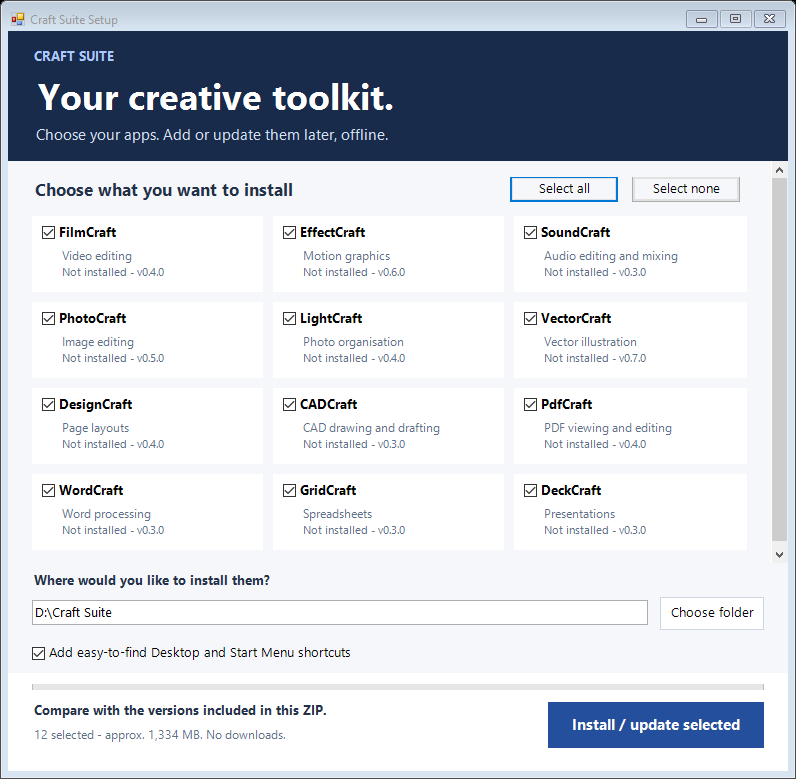
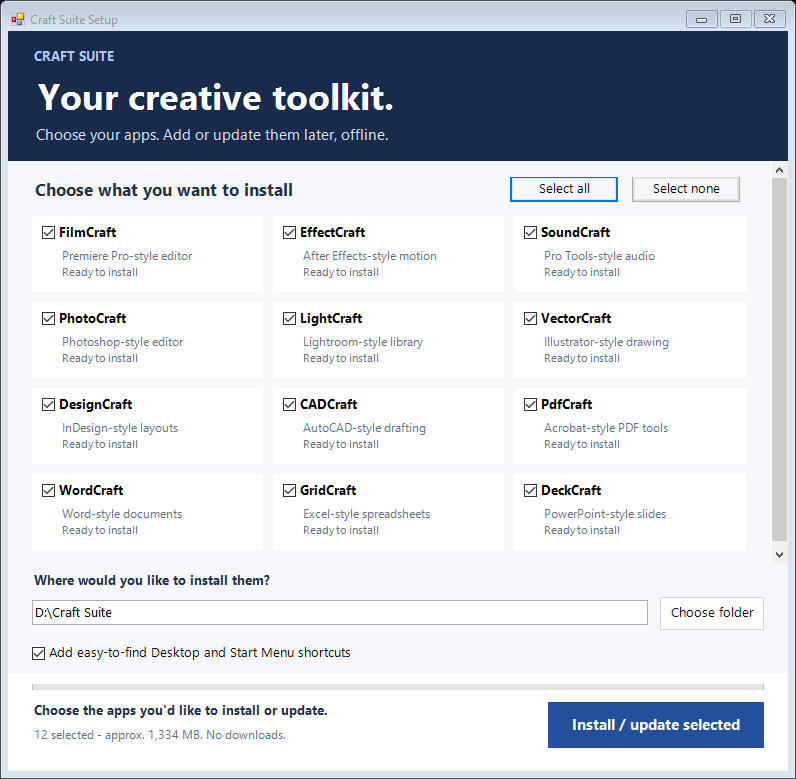
Simplify app descriptions and adopt versioned release filenames

diff --git a/build.py b/build.py
@@ -68,7 +68,7 @@ def main():
     for rel,target in payloads:
         p=data/rel;p.parent.mkdir(parents=True,exist_ok=True);shutil.copyfile(target,p)
     dist=ROOT/'dist';dist.mkdir(exist_ok=True)
-    output=dist/'Craft-Suite-Windows-x64-Setup.zip'
+    output=dist/('Craft-Suite-'+lock['installerVersion']+'-Windows-x64-Setup.zip')
     if output.exists(): raise FileExistsError('Release file already exists; it was preserved.')
     with zipfile.ZipFile(output,'w',allowZip64=True) as z:
         for p in sorted(package.rglob('*')):
@@ -79,7 +79,7 @@ def main():
                 with p.open('rb') as f,z.open(info,'w',force_zip64=True) as out: shutil.copyfileobj(f,out)
     with zipfile.ZipFile(output) as z:
         if z.testzip() is not None: raise ValueError('Output archive CRC failure')
-    (dist/'Craft-Suite-Windows-x64-Setup.sha256').write_text(digest(output)+'  '+output.name+'\n',encoding='utf-8',newline='\n')
+    output.with_suffix('.sha256').write_text(digest(output)+'  '+output.name+'\n',encoding='utf-8',newline='\n')
     print(output)
 
 if __name__=='__main__':main()

diff --git a/README.md b/README.md
@@ -2,11 +2,11 @@
 
 Twelve creative apps. One simple, offline installation.
 
-**[Download the Windows x64 installer ZIP](https://github.com/Chynamo/craft-suite-installer/releases/download/v1.2.0-preview.1/Craft-Suite-Windows-x64-Setup.zip)** Â· [Release and checksum](https://github.com/Chynamo/craft-suite-installer/releases/tag/v1.2.0-preview.1)
+**[Download the Windows x64 installer ZIP](https://github.com/Chynamo/craft-suite-installer/releases/download/v1.2.1-preview.1/Craft-Suite-1.2.1-Windows-x64-Setup.zip)** Â· [Release and checksum](https://github.com/Chynamo/craft-suite-installer/releases/tag/v1.2.1-preview.1)
 
 ## Install
 
-1. Download **Craft-Suite-Windows-x64-Setup.zip** (about 638 MB).
+1. Download **Craft-Suite-1.2.1-Windows-x64-Setup.zip** (about 638 MB).
 2. Right-click the ZIP â†’ **Extract All**. Open the extracted folder.
 3. Double-click **Setup.exe**, choose a folder and tick the apps you want and select **Install / update selected**.
 
@@ -16,7 +16,7 @@ Keep `InstallerData` beside `Setup.exe`. All apps are included: no downloads, ac
 
 ## Add apps and update later
 
-Run `Setup.exe` again and choose the **same installation folder**. Each card compares the installed version with the version in this ZIP: **Not installed**, **Up to date**, **Update available**, **Newer than this bundle**, or **Needs attention**.
+Run `Setup.exe` again and choose the **same installation folder**. Cards show **Ready to install**, **Already installed**, **Update available**, **Newer version installed**, or **Check installation folder**. Exact versions are available by hovering over an app name or status.
 
 New and outdated apps are selected by default. Unselected apps stay installed. Updates are installed alongside the old version, then the selected app's owned shortcuts switch to the new version. Older folders and your projects are retained; this installer does not silently downgrade or uninstall anything. Run a newly downloaded bundle to compare against its newer pinned versions. No internet check or automatic background updater is included.
 
@@ -44,7 +44,9 @@ End users should download the installer ZIP above, **not GitHub's Source code ZI
 
 Maintainers need Windows x64, Python 3.11+ and the built-in .NET Framework C# compiler. Run `python build.py`. This downloads the pinned upstream ZIPs, checks their SHA-256 hashes, compiles the graphical launcher and writes the ZIP/checksum under `dist/`.
 
-To reuse an existing official community bundle without redownloading: `python build.py --from-bundle "path/to/Craft-Suite-Windows-x64-Setup.zip"`. Use `--validate-only` to check inputs and compile the launcher without assembling the large output. No installation is performed by the builder. Rebuilt archives are not guaranteed byte-identical to the published ZIP.
+To reuse an existing official community bundle without redownloading: `python build.py --from-bundle "path/to/Craft-Suite-1.2.1-Windows-x64-Setup.zip"`. Use `--validate-only` to check inputs and compile the launcher without assembling the large output. No installation is performed by the builder. Rebuilt archives are not guaranteed byte-identical to the published ZIP.
+
+Software names describe the workflows referenced by the original team; these independent apps are not the Adobe, Microsoft, Autodesk or Avid products and do not claim full feature parity.
 
 ## Licences
 

diff --git a/CHANGELOG.md b/CHANGELOG.md
@@ -1,5 +1,10 @@
 # Releases
 
+## v1.2.1-preview.1
+
+Recognisable software-workflow descriptions, clearer action/status text and versions moved into hover details. Release filenames include the three-part version. Install/update engine and app releases unchanged.
+
+
 ## v1.2.0-preview.1
 
 App selection, offline installed-versus-bundled status, selected-app space estimate, backward-compatible receipts, remembered installation folder, add-later support, side-by-side updates and downgrade refusal. Existing apps/projects and older version folders are retained.
